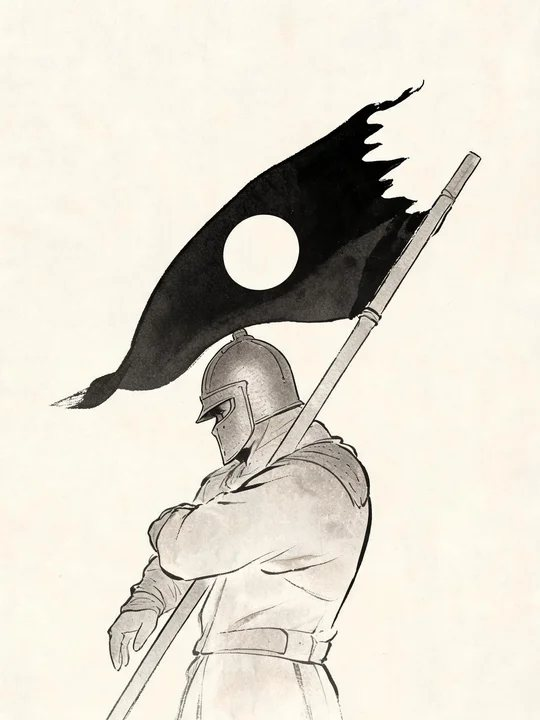
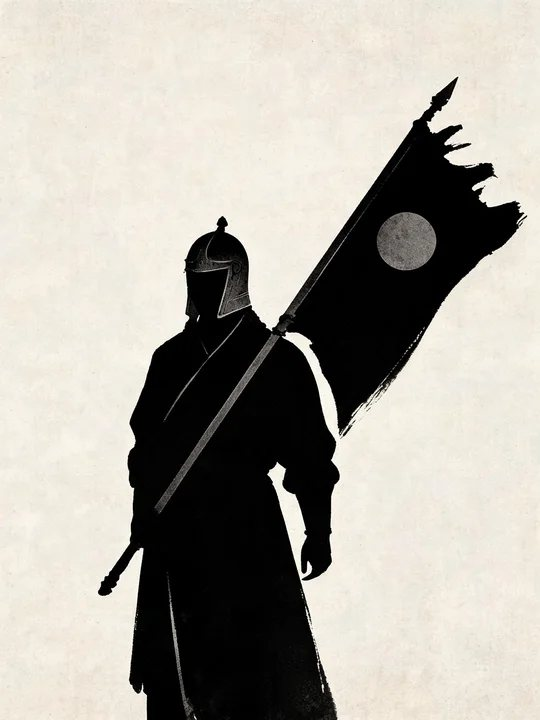
feat(art): tuchu 二次回炉——旗手袍从白描浅线改成浓墨整块，16 张全员过缩略复核
首轮 16 张按席位最狠的一档（手机横屏 .dt-seat-img 44x58）实缩逐张看过：
15 张读得出来，tuchu 那张旗面是浓墨、旗手却是白描浅线，缩到人几乎消失
（暗部占比 0.08~0.13），与它的同源变体 junxi（0.33）差一整档。
回炉只加一条硬约束"衣袍要涂实，不许白描浅线、不许留成纸白"，占比升到 0.26~0.28、
亮度降 188 是全组最高。

court 不回炉：南迁派百官本来就该是浅袍，靠展脚幞头那道横向硬轮廓辨认，压深反而失实。
待产清单 P0 一节同时标记为已补齐。

diff --git a/tools/land_opponents2.py b/tools/land_opponents2.py
@@ -7,13 +7,14 @@ opponentArt() 先查 opp_<对局id>，再回落 r_<去掉 d_ 前缀>，所以文
 挑选口径不是"哪张最好看"，而是缩到席位真实尺寸（手机横屏 .dt-seat-img 44x58）
 之后主体还认不认得出——打分器见 pick_seat_legible.py。
 两个来源目录：opponents2 是首轮 16 个 tag，opponents2b 是其中三张的回炉；
-回炉的 tag 优先取 2b，2b 没有才退回 2。
+opponents2c 是 tuchu 的第二次回炉（首轮旗手袍是白描浅线，缩到 44x58 人几乎消失）。
+回炉的 tag 优先取靠后的目录，没有才退回上一轮。
 """
 import os
 import sys
 from PIL import Image
 
-DIRS = ['tools/jm/incoming/opponents2b', 'tools/jm/incoming/opponents2']
+DIRS = ['tools/jm/incoming/opponents2c', 'tools/jm/incoming/opponents2b', 'tools/jm/incoming/opponents2']
 DST = 'app/src/assets/portraits'
 PICKS = {
     'opp_d_junxi': 3,

diff --git a/待产图片清单.md b/待产图片清单.md
@@ -6,7 +6,11 @@
 
 ---
 
-## P0 · 对局对手立绘 16 张（硬缺口）
+## P0 · 对局对手立绘 16 张（硬缺口）→ **已补齐（2026-10-09）**
+
+16 张全部产完落位，34/34 场对局不再有牌桌落朱印；`verify.mts` 已补一条立绘覆盖门禁（含证伪）。
+构图口径与本表原稿不同，见下方"⚠ 构图口径已改"。挑选与回炉记录见
+`tools/jm/job_opponents2{,b,c}.json` 与 `tools/land_opponents2.py`。
 
 - **落位**：`app/src/assets/portraits/opp_<对局id>.jpg`（按对局 id 自动接通，无需改代码）
 - **规格**：540×720，3:4 竖幅（与现有 38 张立绘同口径）
